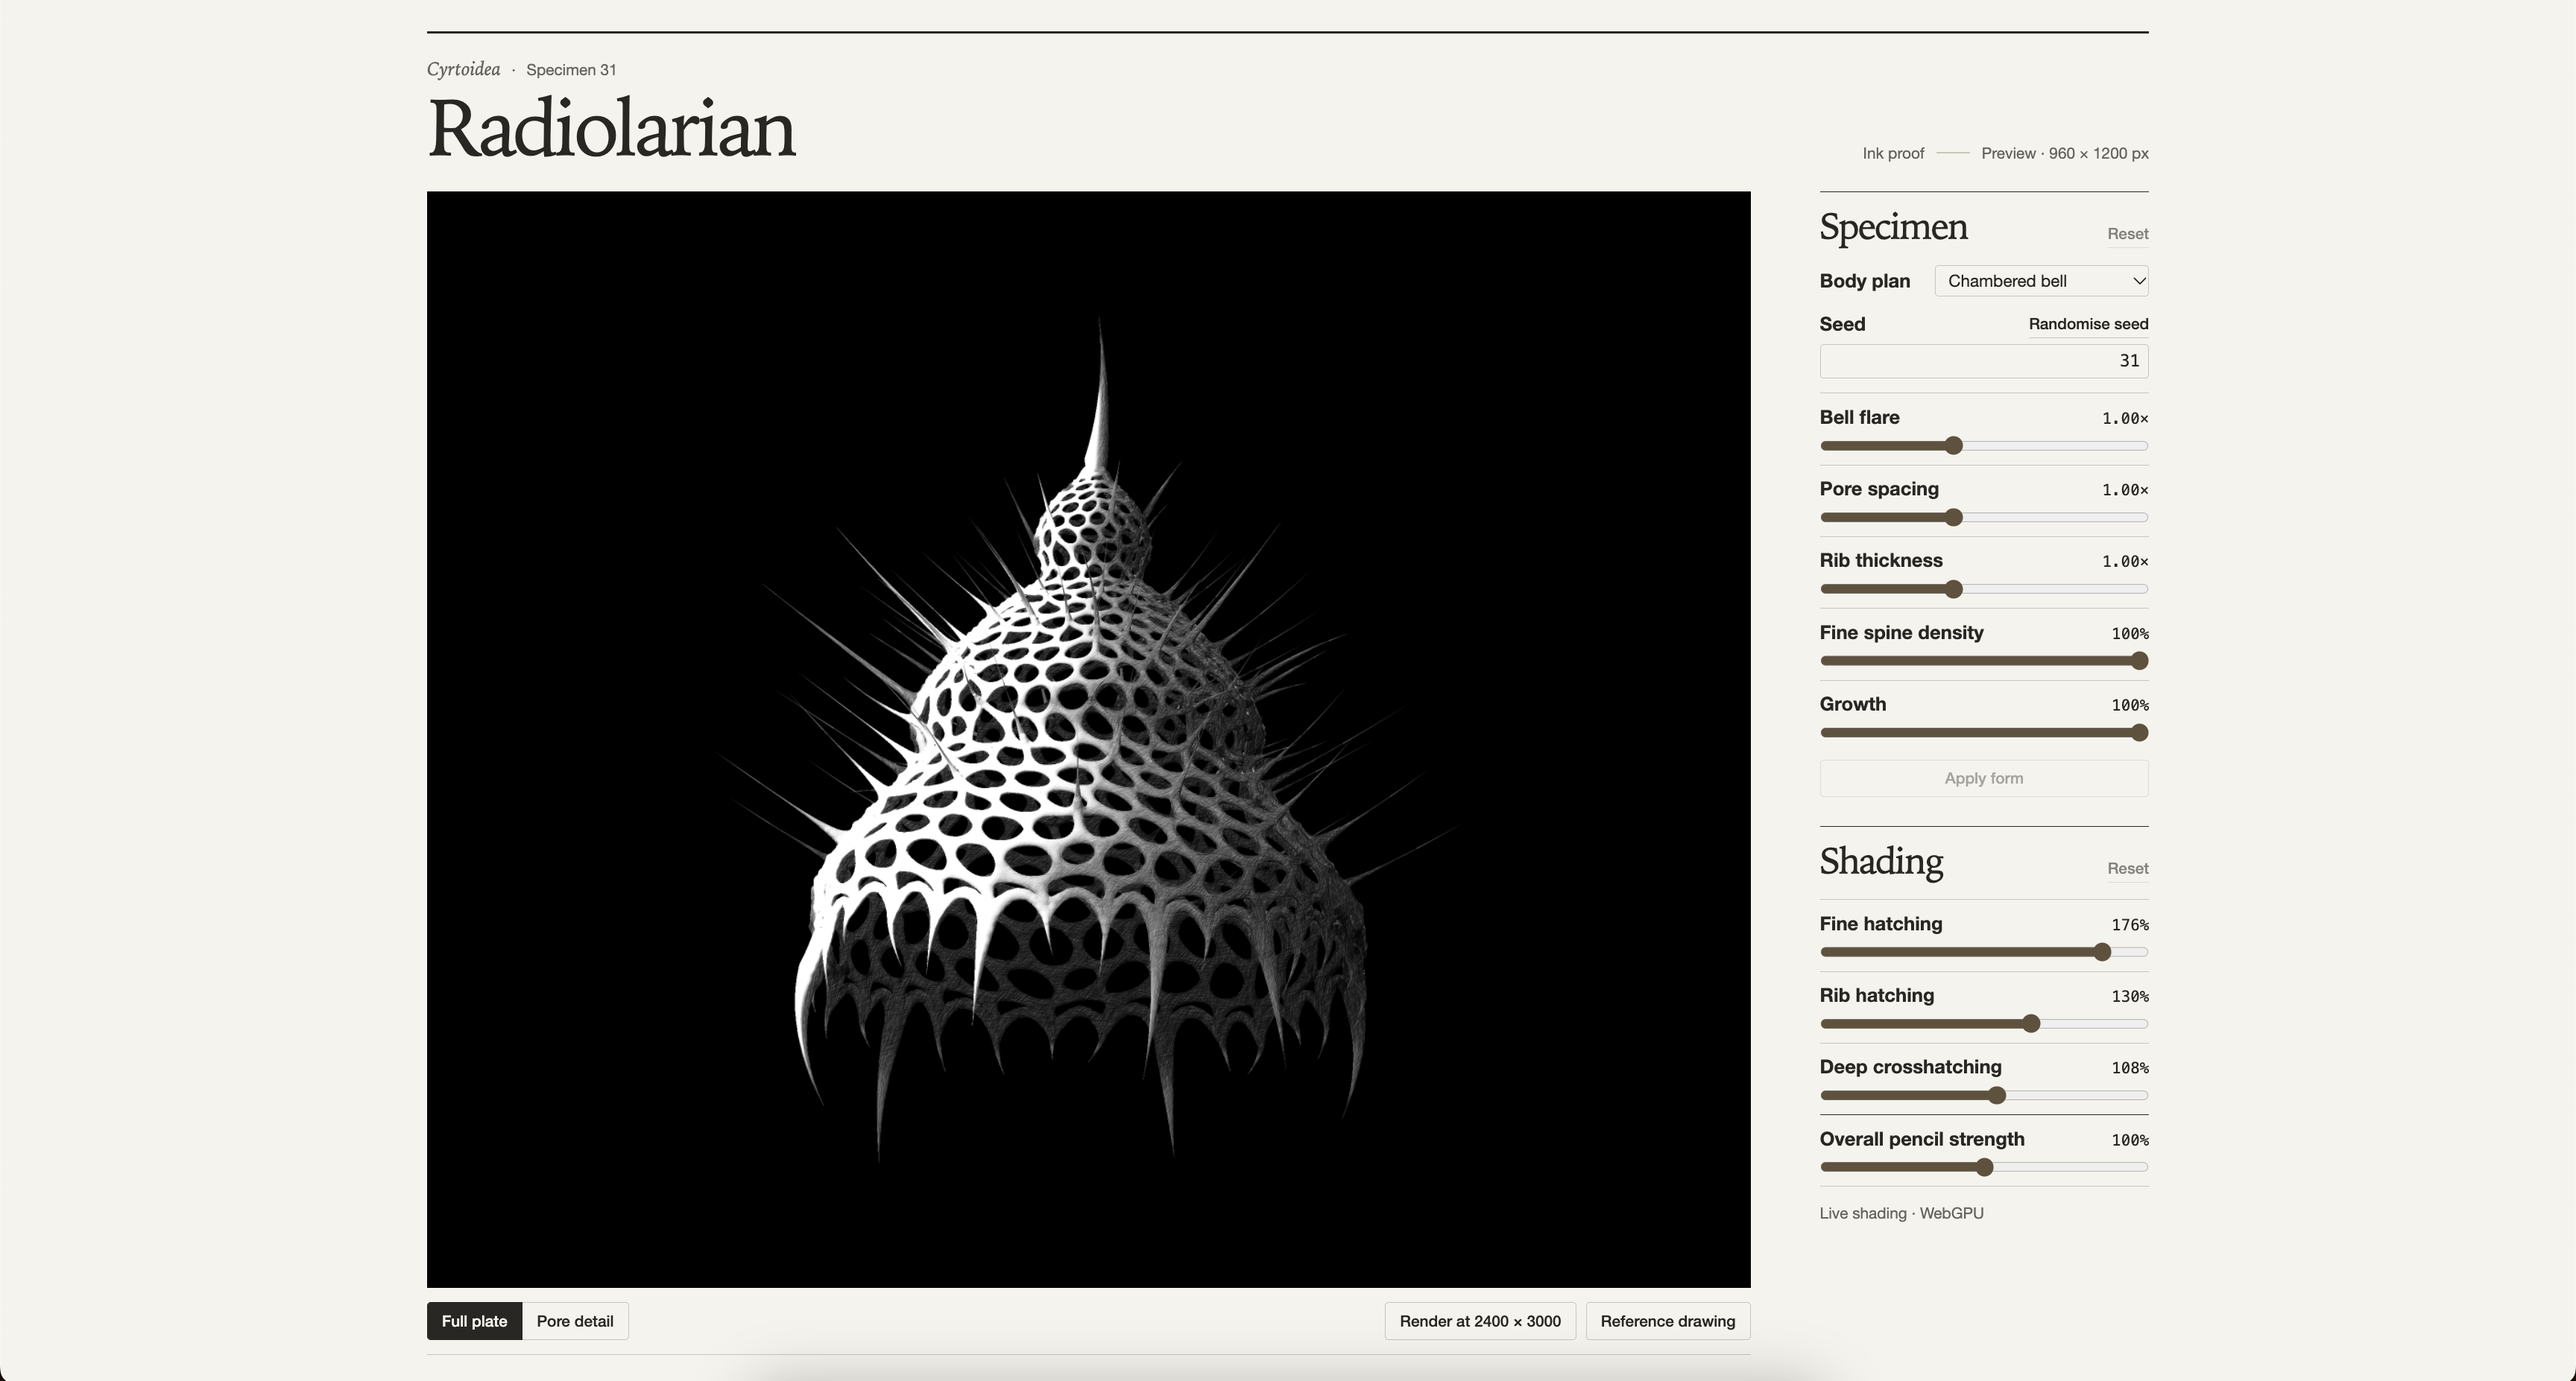
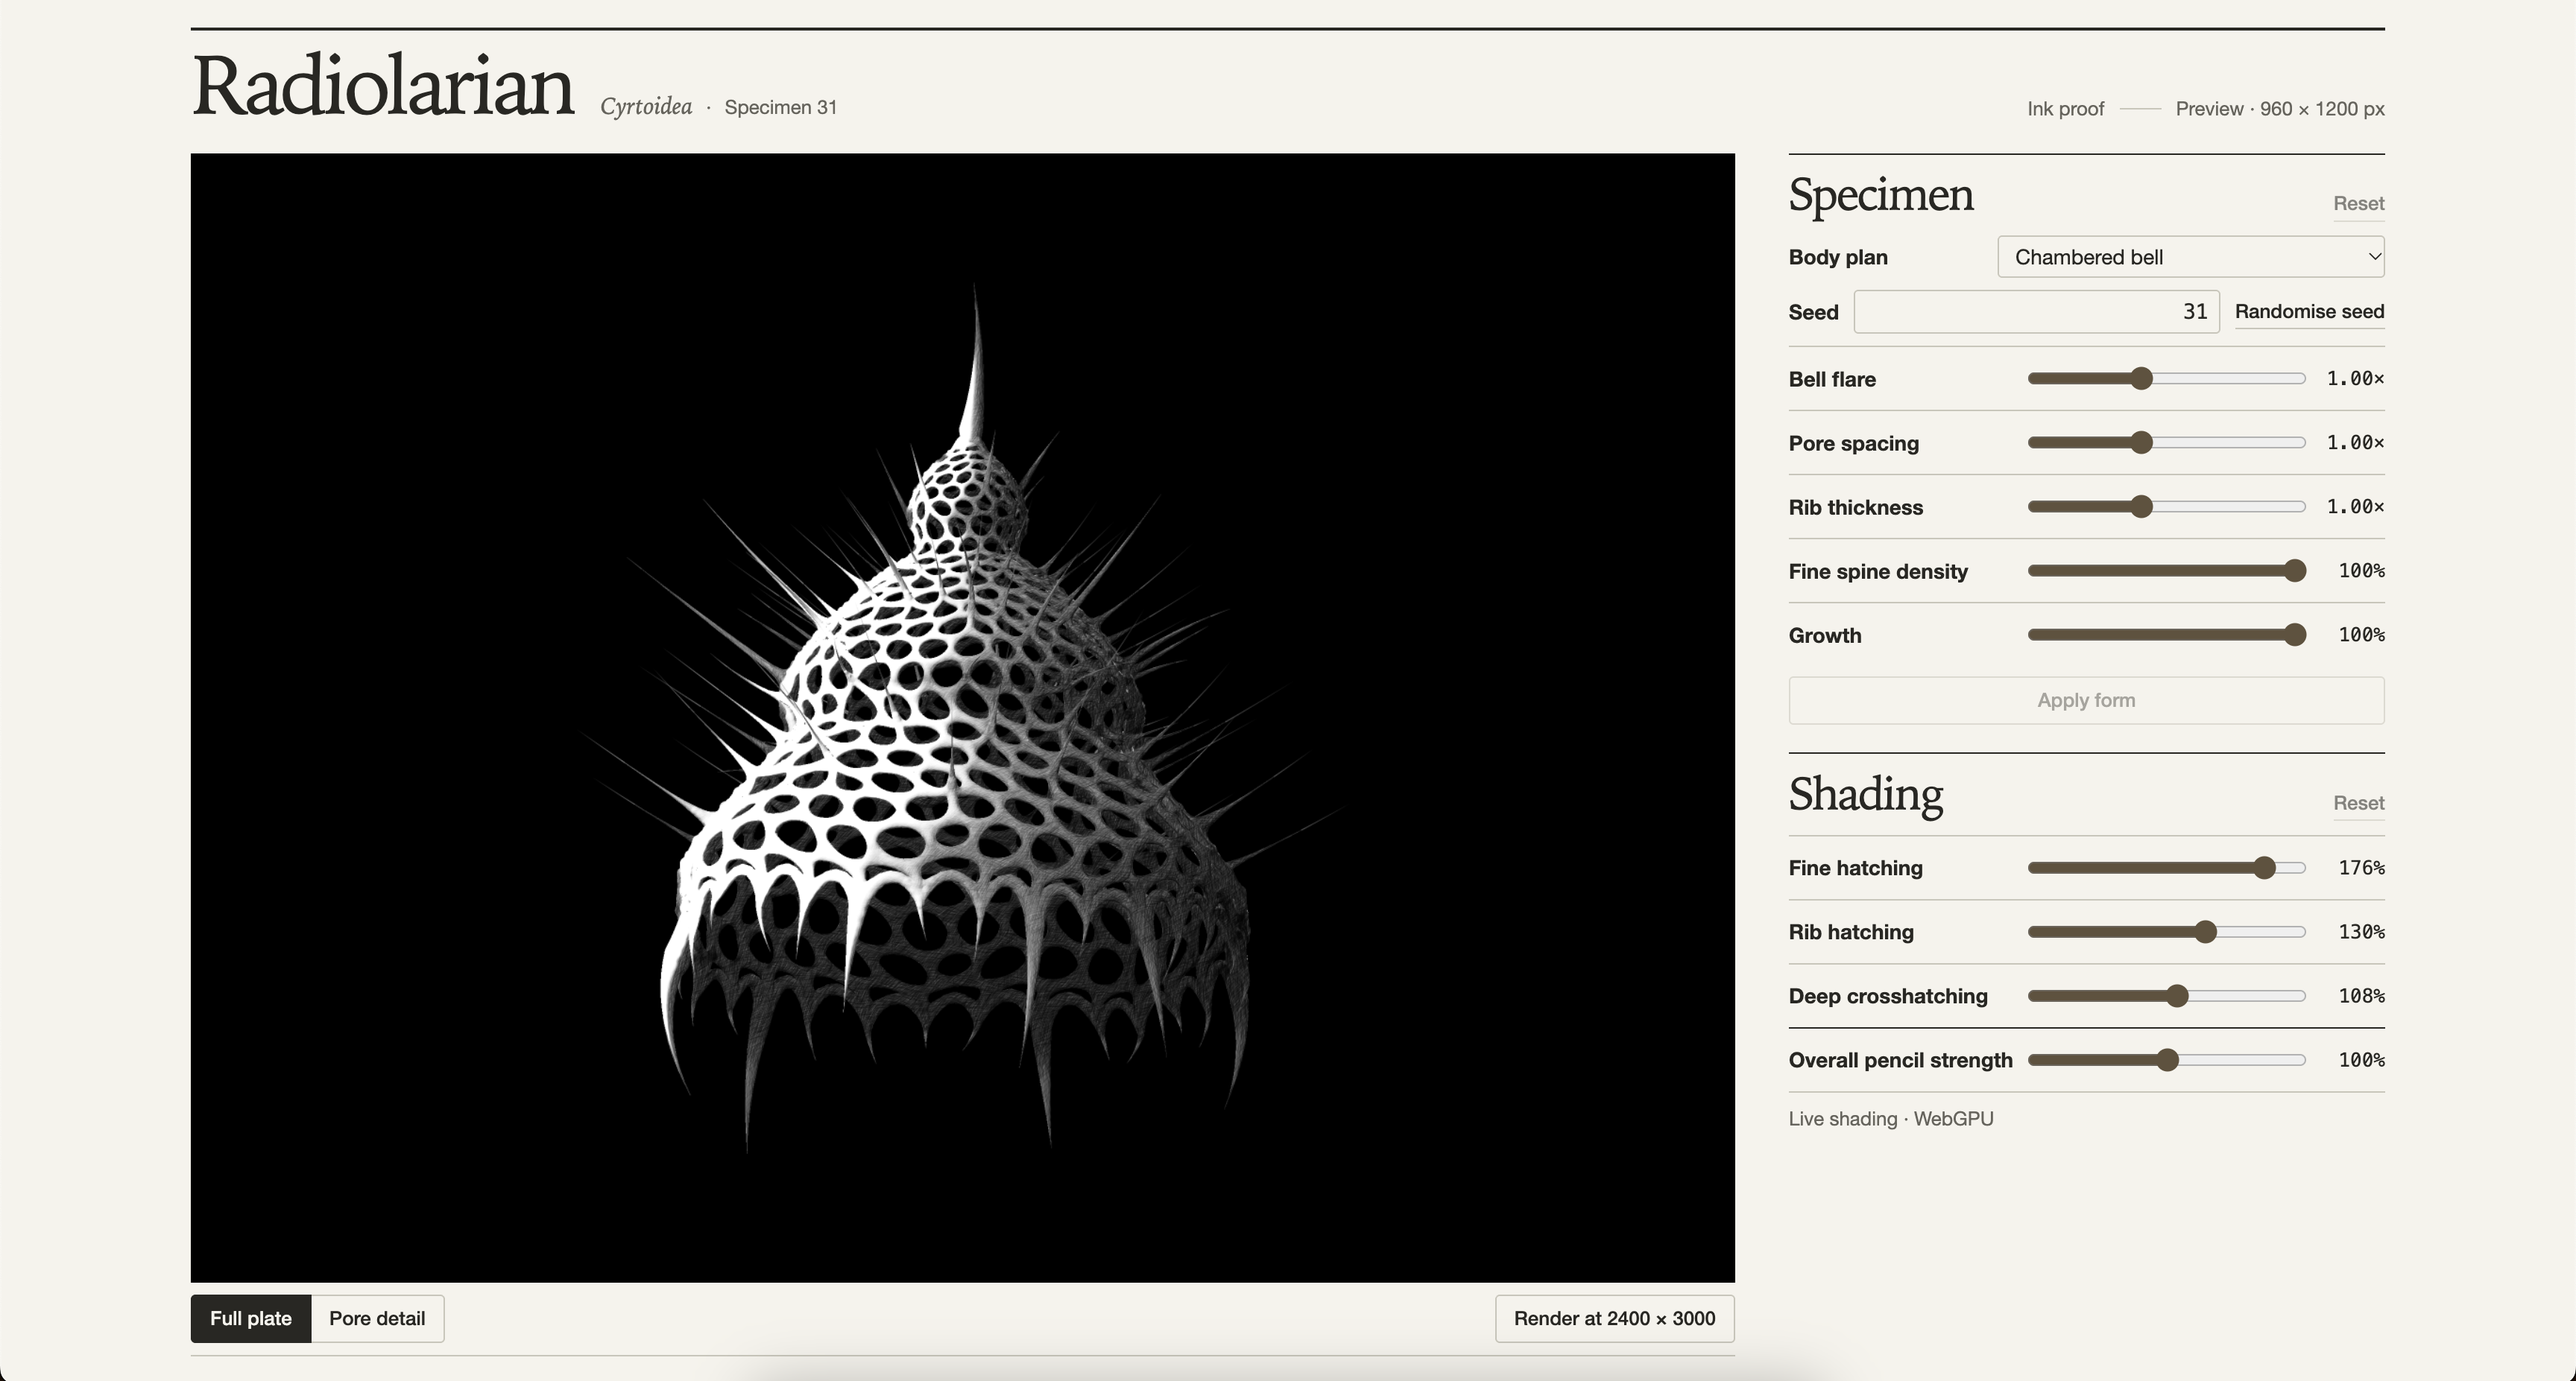
Update the README for the compact viewer layout

diff --git a/README.md b/README.md
@@ -14,13 +14,13 @@ cargo build --release --locked --target wasm32-unknown-unknown
 python3 -m http.server 8000 --bind 127.0.0.1
 ```
 
-Open the [local viewer](http://127.0.0.1:8000/). Specimen 31 appears immediately while the worker prepares the interactive drawing. A browser with WebGPU enables live shading. Browsers with WebAssembly and web workers can also display the reference drawing and generate new specimens.
+Open the [local viewer](http://127.0.0.1:8000/). Specimen 31 appears immediately while the worker prepares the interactive drawing. A browser with WebGPU enables live shading. Browsers with WebAssembly and web workers can generate specimens with the default shading.
 
 ## Draw a specimen
 
 - Choose a body plan, adjust its proportions or growth, and select **Apply form**. The camera stays fixed through the growth stages of a specimen.
 - Enter a seed to reproduce a drawing with the same settings. **Randomise seed** starts a new preview using the current form. A progress indicator shows which specimen is rendering.
-- Adjust **Fine hatching**, **Rib hatching**, **Deep crosshatching**, or **Overall pencil strength**. Select **Reference drawing** to compare the result with the original pencil settings.
+- Adjust **Fine hatching**, **Rib hatching**, **Deep crosshatching**, or **Overall pencil strength** to change the shading live.
 - The preview is 960 × 1200 pixels. **Render at 2400 × 3000** produces the full-size drawing. **Pore detail** lets you inspect the strokes by dragging or using the arrow keys.
 
 ## Test the renderer
